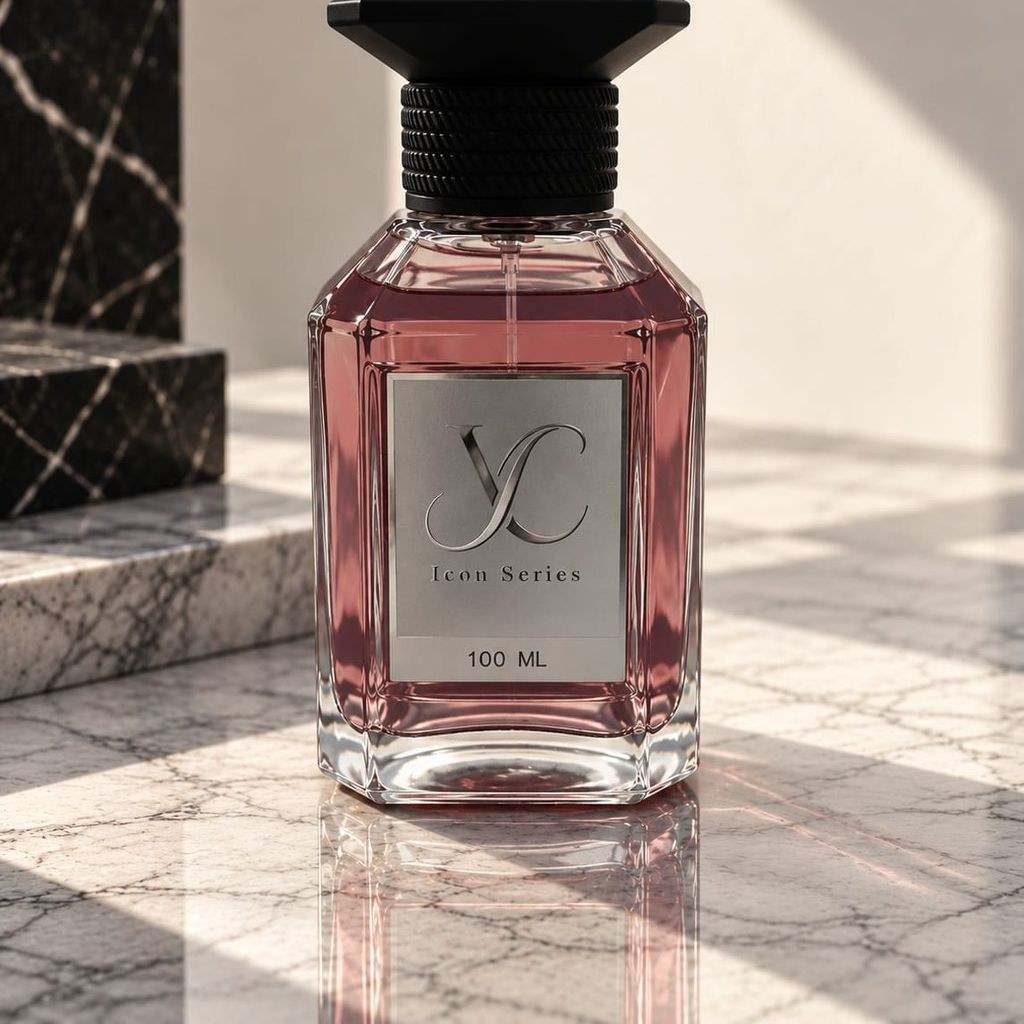
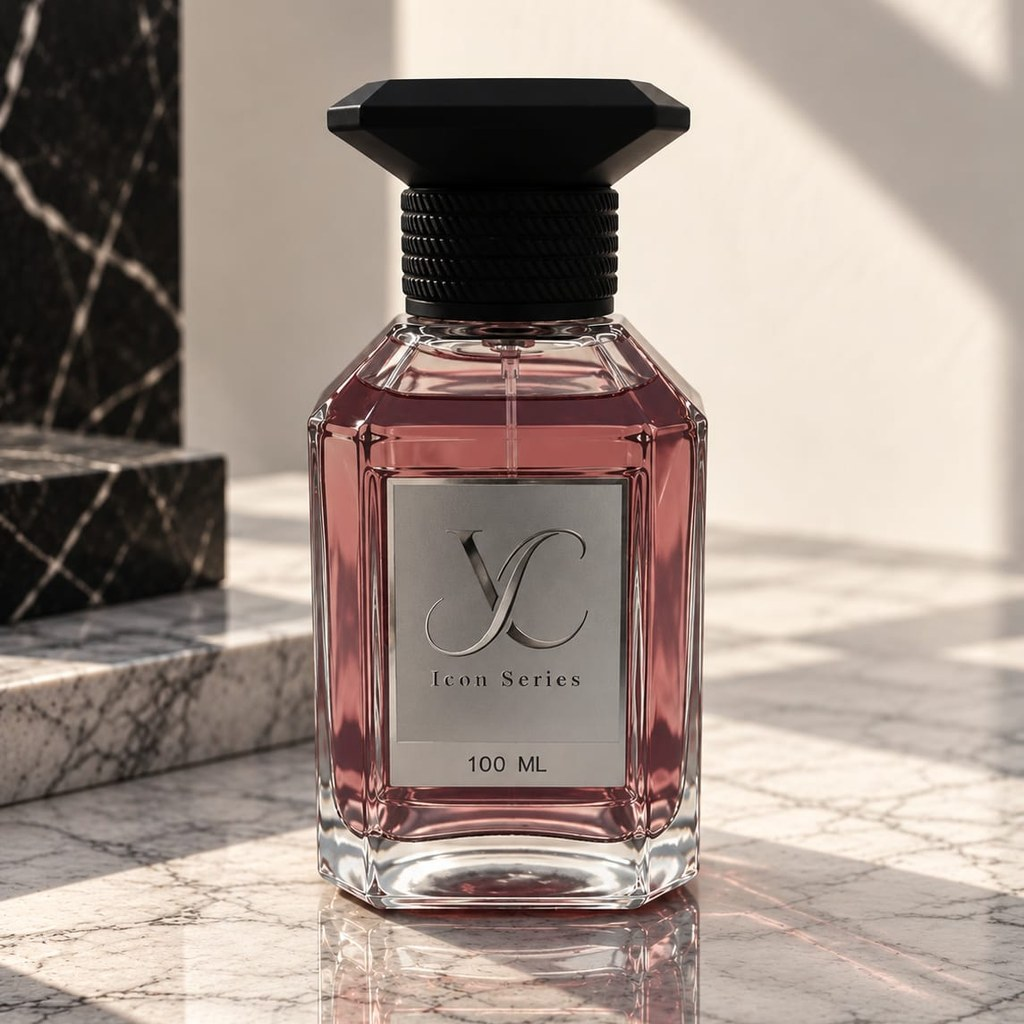
Fix nicho/mujer bottle photo crop to match the original framing
Same root cause as the earlier hombre/unisex fix: the first-pass
automated square crop clipped more of the original portrait photo than
intended, so the live site showed a more zoomed-out, less filled frame
than the actual reference photo. Re-cropped from the already-archived
original (formats/_icon-series-originals/nicho-mujer-original.jpg)
using the same top-offset framing as hombre/unisex for consistency
across all three nicho bottles.

Bumped cache-busting version again.

Claude-Session: https://claude.ai/code/session_01Gb7jNY6uT1dWXy1sbRGB6W

diff --git a/src/index.html b/src/index.html
@@ -236,7 +236,7 @@
   <link rel="prefetch" href="styles/format-rail.css?v=51">
   <link rel="prefetch" href="styles/decants.css?v=51">
   <link rel="prefetch" href="styles/coleccion.css?v=61">
-  <link rel="prefetch" href="scripts/fragrance-data.js?v=60">
+  <link rel="prefetch" href="scripts/fragrance-data.js?v=61">
   <link rel="prefetch" href="scripts/catalogo-data.js?v=53">
   <link rel="prefetch" href="scripts/catalogo.js?v=81">
 </head>
@@ -632,7 +632,7 @@
     </div>
   </div>
 
-  <script src="scripts/fragrance-data.js?v=60" defer></script>
+  <script src="scripts/fragrance-data.js?v=61" defer></script>
   <script src="scripts/search.js?v=53" defer></script>
   <script src="scripts/cart-drawer.js?v=12" defer></script>
   <script src="scripts/quiz.js?v=8" defer></script>

diff --git a/src/scripts/fragrance-data.js b/src/scripts/fragrance-data.js
@@ -643,7 +643,7 @@
     '30ml':  'assets/images/formats/frasco-30ml.webp',
     '100ml': 'assets/images/formats/frasco-100ml.webp',
     /* Nicho-only 100ml gender variants — see catalogo.js get100mlImage(). */
-    '100ml-nicho-mujer':   'assets/images/formats/frasco-100ml-nicho-mujer.webp',
+    '100ml-nicho-mujer':   'assets/images/formats/frasco-100ml-nicho-mujer.webp?v=2',
     '100ml-nicho-hombre':  'assets/images/formats/frasco-100ml-nicho-hombre.webp?v=2',
     '100ml-nicho-unisex':  'assets/images/formats/frasco-100ml-nicho-unisex.webp?v=2',
     '100ml-disenador-mujer':  'assets/images/formats/frasco-100ml-disenador-mujer.webp',

diff --git a/src/carrito.html b/src/carrito.html
@@ -242,7 +242,7 @@
 
   <script src="scripts/search.js?v=53" defer></script>
   <script src="scripts/cart-drawer.js?v=12" defer></script>
-  <script src="scripts/fragrance-data.js?v=60" defer></script>
+  <script src="scripts/fragrance-data.js?v=61" defer></script>
   <script src="scripts/catalogo-data.js?v=53" defer></script>
   <script src="scripts/nav.js?v=57" defer></script>
   <script src="scripts/carrito.js?v=15" defer></script>

diff --git a/src/catalogo.html b/src/catalogo.html
@@ -367,7 +367,7 @@
     </svg>
   </button>
 
-  <script defer src="scripts/fragrance-data.js?v=60"></script>
+  <script defer src="scripts/fragrance-data.js?v=61"></script>
   <script defer src="scripts/nav.js?v=57"></script>
   <script defer src="scripts/scroll.js?v=51"></script>
   <script defer src="scripts/catalogo-data.js?v=53"></script>

diff --git a/src/catalogo-lab.html b/src/catalogo-lab.html
@@ -367,7 +367,7 @@
     </div>
   </div>
 
-  <script defer src="scripts/fragrance-data.js?v=60"></script>
+  <script defer src="scripts/fragrance-data.js?v=61"></script>
   <script defer src="scripts/nav.js?v=57"></script>
   <script defer src="scripts/scroll.js?v=51"></script>
   <script defer src="scripts/catalogo-data.js?v=53"></script>

diff --git a/src/faq.html b/src/faq.html
@@ -343,7 +343,7 @@
     </div>
   </div>
 
-  <script src="scripts/fragrance-data.js?v=60" defer></script>
+  <script src="scripts/fragrance-data.js?v=61" defer></script>
   <script src="scripts/search.js?v=53" defer></script>
   <script src="scripts/cart-drawer.js?v=12" defer></script>
   <script src="scripts/wa-float.js" defer></script>

diff --git a/src/guia.html b/src/guia.html
@@ -741,7 +741,7 @@
     </div>
   </div>
 
-  <script src="scripts/fragrance-data.js?v=60" defer></script>
+  <script src="scripts/fragrance-data.js?v=61" defer></script>
   <script src="scripts/search.js?v=53" defer></script>
   <script src="scripts/cart-drawer.js?v=12" defer></script>
   <script src="scripts/quiz.js?v=8" defer></script>

diff --git a/src/perfumista.html b/src/perfumista.html
@@ -575,7 +575,7 @@
     </div>
   </div>
 
-  <script src="scripts/fragrance-data.js?v=60" defer></script>
+  <script src="scripts/fragrance-data.js?v=61" defer></script>
   <script src="scripts/search.js?v=53" defer></script>
   <script src="scripts/cart-drawer.js?v=12" defer></script>
   <script src="scripts/wa-float.js" defer></script>

diff --git a/src/proceso.html b/src/proceso.html
@@ -414,7 +414,7 @@
     </div>
   </div>
 
-  <script src="scripts/fragrance-data.js?v=60" defer></script>
+  <script src="scripts/fragrance-data.js?v=61" defer></script>
   <script src="scripts/search.js?v=53" defer></script>
   <script src="scripts/cart-drawer.js?v=12" defer></script>
   <script src="scripts/wa-float.js" defer></script>

diff --git a/src/personalizacion.html b/src/personalizacion.html
@@ -1206,7 +1206,7 @@
     </div>
   </div>
 
-  <script src="scripts/fragrance-data.js?v=60" defer></script>
+  <script src="scripts/fragrance-data.js?v=61" defer></script>
   <script src="scripts/nav.js?v=57" defer></script>
   <script src="scripts/scroll.js?v=51" defer></script>
   <script src="scripts/search.js?v=53" defer></script>

diff --git a/src/admin.html b/src/admin.html
@@ -885,7 +885,7 @@
     </svg>
   </button>
 
-  <script src="scripts/fragrance-data.js?v=60"></script>
+  <script src="scripts/fragrance-data.js?v=61"></script>
   <script src="scripts/catalogo-data.js?v=53"></script>
   <script src="scripts/admin.js?v=29"></script>
   <!-- PWA install bottom sheet -->
